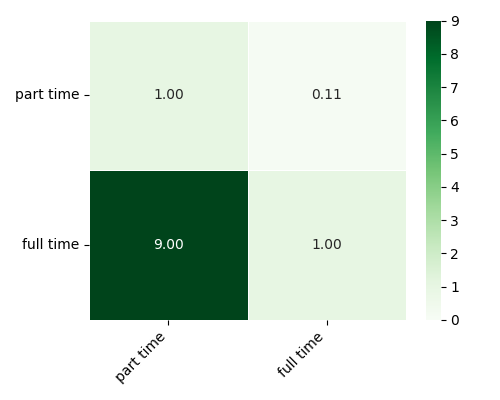
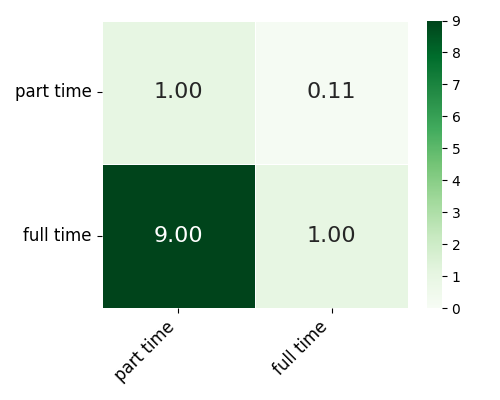
Modified heatmaps

diff --git a/MCDMAnalysis_AHP.py b/MCDMAnalysis_AHP.py
@@ -131,9 +131,18 @@ def AHPReplaceValues(Alternatives: pd.DataFrame):
     map_contract = {'part time': 0.09955, 'full time': 0.90045}
     map_career = {'downgrade': 0.04767, 'same': 0.10841, 'not important': 0.25835, 'upgrade career': 0.58558}
     map_advancement = {'down': 0.06096, 'same': 0.21577, 'up': 0.72327}
-    map_hours = {'daily/night shift': 0.04767, 'two-shift': 0.10841, 'afternoon shift': 0.25835,
-                 'morning shift': 0.58558}
+    map_hours = {'daily/night shift': 0.04767, 'two-shift': 0.10841, 'afternoon shift': 0.25835, 'morning shift': 0.58558}
     map_distance = {'> 20 km': 0.06096, '10 - 20 km': 0.21577, '< 10 km': 0.72327}
+
+    #map_three = {'small': 0.16328, 'medium': 0.29742, 'large': 0.53929}
+    #map_competences = {'>10': 0.16328, '5 - 10': 0.29742, '< 5 new competences': 0.53929}
+    #map_yes_no = {'no': 0.33333, 'yes': 0.66667}
+    #map_part_full = {'part time': 0.16328, 'full time': 0.29742, 'not important': 0.53929}
+    #map_contract = {'part time': 0.33333, 'full time': 0.66667}
+    #map_career = {'downgrade': 0.06726, 'same': 0.13946, 'not important': 0.27666, 'upgrade career': 0.51662}
+    #map_advancement = {'down': 0.16328, 'same': 0.29742, 'up': 0.53929}
+    #map_hours = {'daily/night shift': 0.06726, 'two-shift': 0.13946, 'afternoon shift': 0.27666, 'morning shift': 0.51662}
+    #map_distance = {'> 20 km': 0.16328, '10 - 20 km': 0.29742, '< 10 km': 0.53929}
 
     replacement_maps = {
         col_available_positions: map_three,

diff --git a/MCDMAnalysis_TOPSIS.py b/MCDMAnalysis_TOPSIS.py
@@ -37,6 +37,16 @@ def TOPSISReplaceValues(AlterTOPSIS: pd.DataFrame):
     map_hours_topsis = {'daily/night shift': 1, 'two-shift': 2, 'afternoon shift': 3, 'morning shift': 4}
     map_distance_topsis = {'> 20 km': 1, '10 - 20 km': 2, '< 10 km': 3}
 
+    #map_three_topsis = {'small': 1, 'medium': 5, 'large': 9}
+    #map_competences_topsis = {'>10': 1, '5 - 10': 5, '< 5 new competences': 9}
+    #map_yes_no_topsis = {'no': 1, 'yes': 9}
+    #map_part_full_topsis = {'part time': 1, 'full time': 5, 'not important': 9}
+    #map_contract_topsis = {'part time': 1, 'full time': 9}
+    #map_career_topsis = {'downgrade': 1, 'same': 3, 'not important': 6, 'upgrade career': 9}
+    #map_advancement_topsis = {'down': 1, 'same': 5, 'up': 9}
+    #map_hours_topsis = {'daily/night shift': 1, 'two-shift': 3, 'afternoon shift': 6, 'morning shift': 9}
+    #map_distance_topsis = {'> 20 km': 1, '10 - 20 km': 5, '< 10 km': 9}
+
     replacement_maps_topsis = {
         col_available_positions: map_three_topsis,
         col_skp_vs_esco: map_competences_topsis,

diff --git a/AHPCriteriaScale/AHP_CriteraHeatmaps.py b/AHPCriteriaScale/AHP_CriteraHeatmaps.py
@@ -14,13 +14,13 @@ def Create_Heatmap(DataFrameMatrix: pd.DataFrame, Path, Name, Cmap):
                      linewidths=.5,
                      vmin=0,
                      vmax=9,
-                     annot_kws={"size": 10})
+                     annot_kws={"size": 16})
 
     cbar = ax.collections[0].colorbar
     cbar.ax.tick_params(labelsize=10)
 
-    ax.tick_params(axis='x', labelsize=10)  # fontsize za X os
-    ax.tick_params(axis='y', labelsize=10)  # fontsize za Y os
+    ax.tick_params(axis='x', labelsize=12)  # fontsize za X os
+    ax.tick_params(axis='y', labelsize=12)  # fontsize za Y os
 
     plt.xticks(rotation=45, ha='right')
     plt.yticks(rotation=0)

diff --git a/MCDMAnalysis_RBO.py b/MCDMAnalysis_RBO.py
@@ -162,7 +162,7 @@ for pair, similarity in rbo_similarities:
 rbo_matrix.to_csv(directory + '/RBO MCDM comparison.csv')
 
 #Create heatmap for RBO between methods
-Create_Heatmap(rbo_matrix, "RBO between each pair of the MCDM methods", directory, "RBO_MCDMComparison", "Blues")
+Create_Heatmap(rbo_matrix, "RBO between each pair of the MCDM methods", directory, "RBO_MCDMComparison", "coolwarm")
 
 #Calculate the rank aggregation using ScyPy
 # Sort values by alternative ID

diff --git a/MCDMAnalysis_Correlation.py b/MCDMAnalysis_Correlation.py
@@ -122,7 +122,7 @@ print(MCDMRankings_df)
 print('-' * 58)
 
 # Save the DataFrame to a text file
-MCDMRankings_df.to_csv(directory + '/CompleteRankings.csv', sep=';', index=True)
+MCDMRankings_df.to_csv(directory + '/CompleteRankingCorrelations.csv', sep=';', index=True)
 
 #Calculate the ranking coefficients
 Pearson_df = CalculateCorrelation(MCDMRankings_df, "pearson", directory, "Pearson_MCDMRankings")
